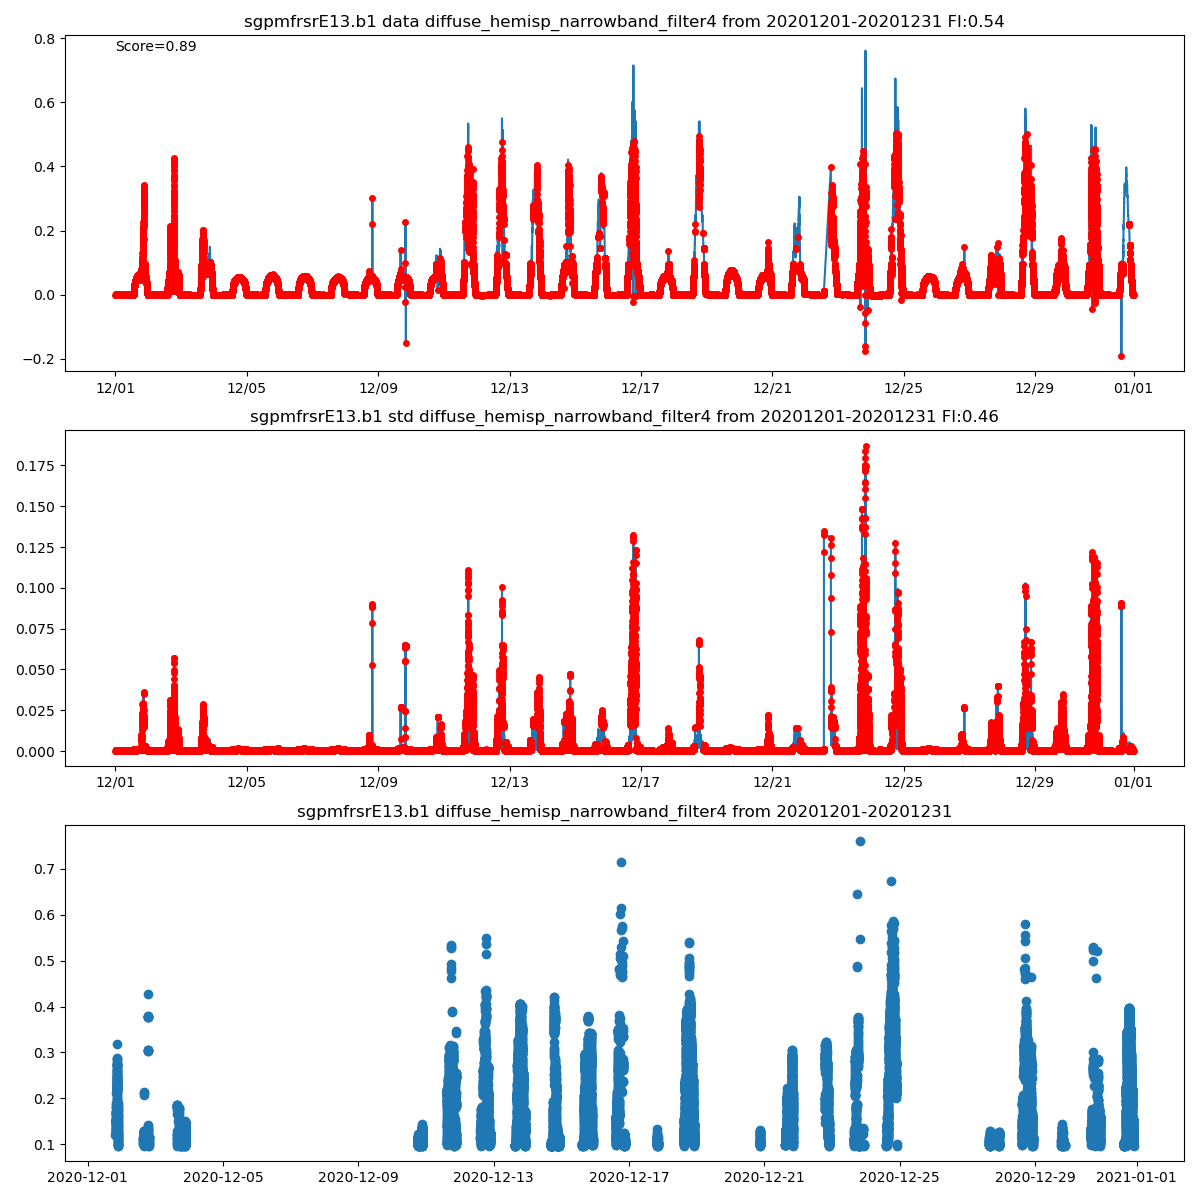
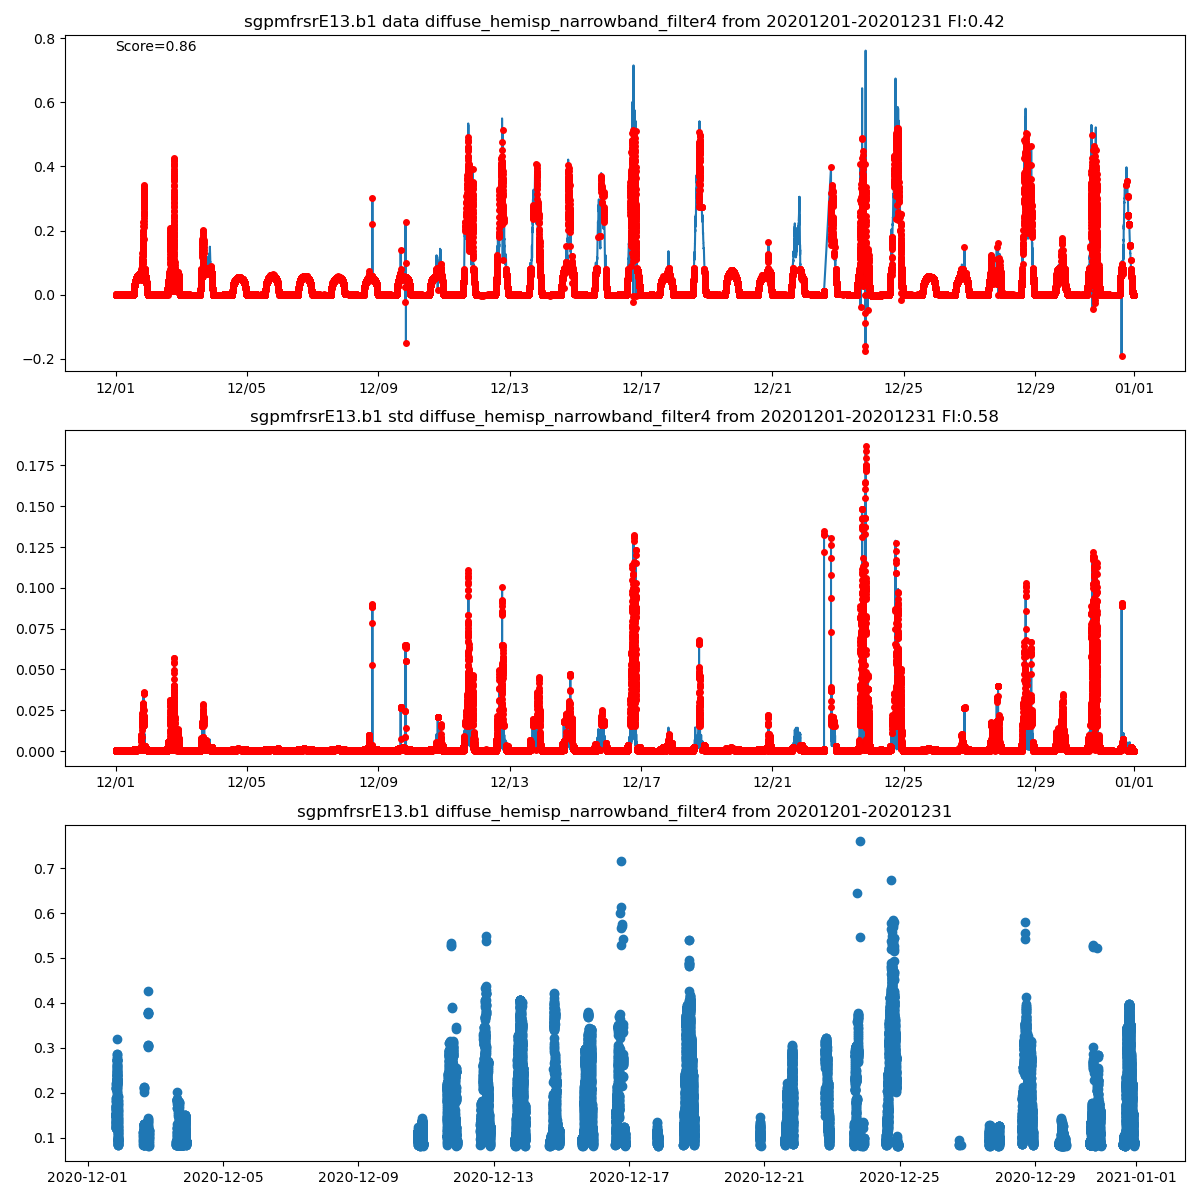
ENH: Updating to just bad DQRs

diff --git a/dqr_training/dqr_ml.py b/dqr_training/dqr_ml.py
@@ -206,7 +206,8 @@ if __name__ == '__main__':
                 break
 
     #####Get all DQR query####
-    url = ''.join(("http://www.archive.arm.gov/dqrws/ARMDQR?datastream=", ds, "&varname=", varname, '&searchmetric=', 'incorrect,suspect,missing'))
+    #url = ''.join(("http://www.archive.arm.gov/dqrws/ARMDQR?datastream=", ds, "&varname=", varname, '&searchmetric=', 'incorrect,suspect,missing'))
+    url = ''.join(("http://www.archive.arm.gov/dqrws/ARMDQR?datastream=", ds, "&varname=", varname, '&searchmetric=', 'incorrect'))
     response = urlopen(url)
     all_dqr_sdate = []
     all_dqr_edate = []
